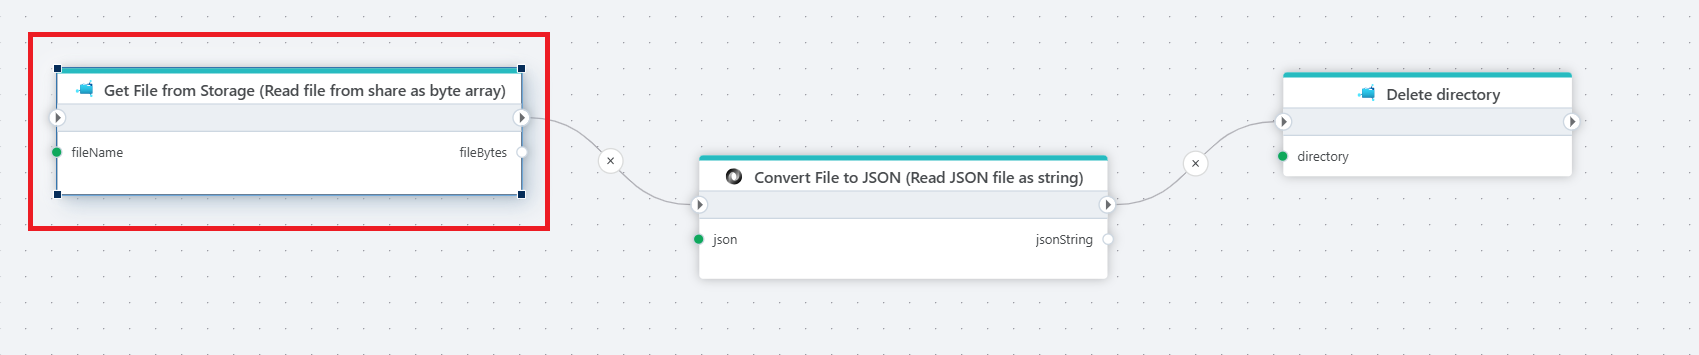
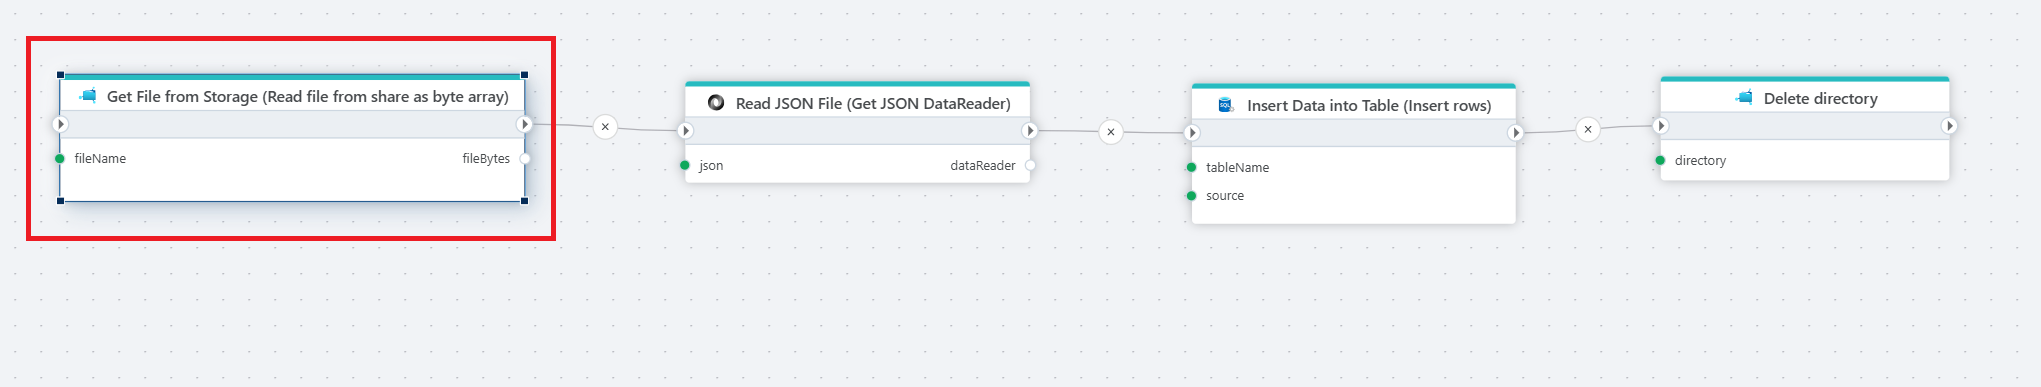
example in azure files

diff --git a/articles/flow/actions/azure-files/read-file-as-byte-array.md b/articles/flow/actions/azure-files/read-file-as-byte-array.md
@@ -7,11 +7,14 @@ Reads the contents of a file in an [Azure Files](https://learn.microsoft.com/en-
 
 **Example** ![img](../../../../images/strz.jpg)
 
-The example above demonstrates a file processing and cleanup operation. This flow retrieves a file from shared storage, converts its content to a JSON string, and then cleans up by deleting the associated directory.  Used actions: 1. Read file from share as byte array 2. [Read JSON file as string](../json/read-json.md) 3. [Delete directory](delete-directory.md).
+The example above takes a file from storage, reads its JSON content, saves the data to a database, and then deletes the storage folder to keep things tidy.  Used actions: 1. Read file from share as byte array 2. [Get JSON DataReader](../json/get-json-datareader.md) 3. [Insert rows](../sql-server/insert-data.md) 4. [Delete directory](delete-directory.md).
 
 </br>
 
 
+## Returns
+
+[Byte](https://learn.microsoft.com/en-us/dotnet/api/system.byte) [array](https://learn.microsoft.com/en-us/dotnet/csharp/language-reference/builtin-types/arrays)
 
 ## Properties
 
@@ -21,6 +24,3 @@ The example above demonstrates a file processing and cleanup operation. This flo
 | File name  | Required | The name and full path to the file to download.                          |
 
 
-## Returns
-
-[Byte](https://learn.microsoft.com/en-us/dotnet/api/system.byte) [array](https://learn.microsoft.com/en-us/dotnet/csharp/language-reference/builtin-types/arrays)

diff --git a/articles/flow/actions/sql-server/insert-data.md b/articles/flow/actions/sql-server/insert-data.md
@@ -1,10 +1,19 @@
-# Insert data
+# Insert rows
 
-Bulk inserts data into a table in SQL Server from a [DataReader](https://learn.microsoft.com/en-us/dotnet/api/system.data.idatareader) or a [DataTable](https://learn.microsoft.com/en-us/dotnet/api/system.data.datatable).
+Inserts rows of data into a SQL Server database from a [DataReader](https://learn.microsoft.com/en-us/dotnet/api/system.data.idatareader) or a [DataTable](https://learn.microsoft.com/en-us/dotnet/api/system.data.datatable).
 
 Use this action when you have many rows that you need to insert to a table.
 
-![img](https://profitbasedocs.blob.core.windows.net/flowimages/insert-data.png)
+
+
+![img](../../../../images/flow/insert-rows.png)
+
+**Example** ![img](../../../../images/strz.jpg)
+
+The example above takes a file from storage, reads its JSON content, saves the data to a database, and then deletes the storage folder to keep things tidy.  Used actions: 1. [Read file from share as a stream](../azure-files/read-file-as-stream.md) 2. [Get JSON DataReader](../json/get-json-datareader.md) 3. Insert rows 4. [Delete directory](../azure-files/delete-directory.md).
+
+</br>
+
 
 ## Properties
 

diff --git a/articles/flow/actions/azure-files/read-file-as-stream.md b/articles/flow/actions/azure-files/read-file-as-stream.md
@@ -6,9 +6,14 @@ Reads the contents of a file in an [Azure Files](https://learn.microsoft.com/en-
 
 **Example** ![img](../../../../images/strz.jpg)
 
-The example above demonstrates a file processing and cleanup operation. This flow retrieves a file from shared storage, converts its content to a JSON string, and then cleans up by deleting the associated directory.  Used actions: 1. Read file from share as stream 2. [Read JSON file as string](../json/read-json.md) 3. [Delete directory](delete-directory.md).
+The example above takes a file from storage, reads its JSON content, saves the data to a database, and then deletes the storage folder to keep things tidy.  Used actions: 1. Read file from share as a stream 2. [Get JSON DataReader](../json/get-json-datareader.md) 3. [Insert rows](../sql-server/insert-data.md) 4. [Delete directory](delete-directory.md).
 
 </br>
+
+
+## Returns
+
+[Stream](https://learn.microsoft.com/en-us/dotnet/api/system.io.stream)
 
 ## Properties
 

diff --git a/articles/flow/actions/azure-files/delete-directory.md b/articles/flow/actions/azure-files/delete-directory.md
@@ -7,7 +7,8 @@ Deletes a directory from an [Azure Files](https://learn.microsoft.com/en-us/azur
 
 **Example** ![img](../../../../images/strz.jpg)
 
-The example above demonstrates a file processing and cleanup operation. This flow retrieves a file from shared storage, converts its content to a JSON string, and then cleans up by deleting the associated directory.  Used actions: 1. [Read file from share as stream](read-file-as-stream.md) 2. [Read JSON file as string](../json/read-json.md) 3. Delete directory.
+
+The example above takes a file from storage, reads its JSON content, saves the data to a database, and then deletes the storage folder to keep things tidy.  Used actions: 1. [Read file from share as byte array](../azure-files/read-file-as-byte-array.md) 2. [Get JSON DataReader](../json/get-json-datareader.md) 3. [Insert rows](../sql-server/insert-data.md) 4. Delete directory.
 
 </br>
 
